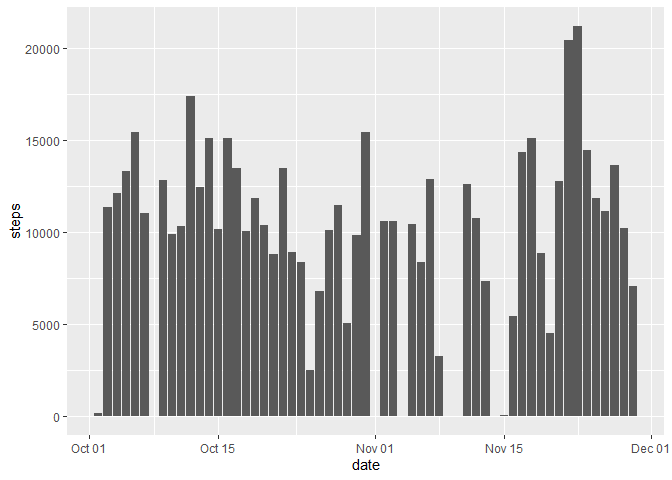
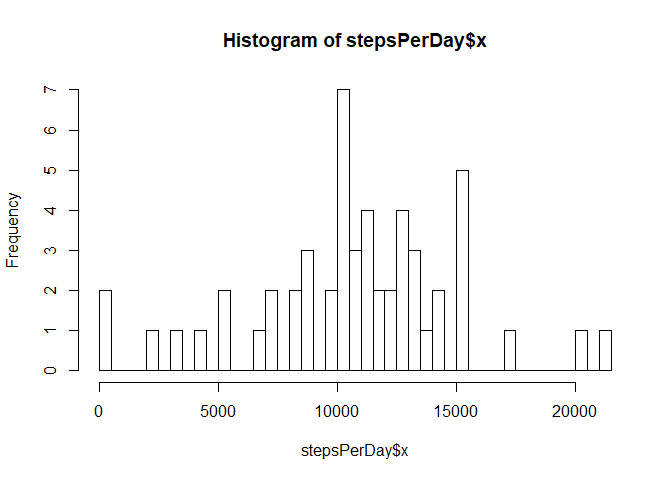
correct the histogram

diff --git a/PA1_template.html b/PA1_template.html
@@ -385,14 +385,13 @@ df &lt;- read.csv(&quot;activity.csv&quot;, colClasses = c(&quot;integer&quot;, 
 <ol style="list-style-type: decimal">
 <li>Make a histogram of the total number of steps taken each day</li>
 </ol>
-<pre class="r"><code>library(ggplot2)
-ggplot(remove_missing(df, na.rm=T), aes(date, steps)) + geom_bar(stat=&quot;identity&quot;)</code></pre>
[1 lines of base64/hex data omitted]
+<pre class="r"><code>stepsPerDay &lt;- aggregate(df$steps, list(dt=df$date), sum)
+hist(stepsPerDay$x, breaks=50)</code></pre>
[1 lines of base64/hex data omitted]
 <ol start="2" style="list-style-type: decimal">
 <li>Calculate and report the <strong>mean</strong> and <strong>median</strong> total number of steps taken per day</li>
 </ol>
-<pre class="r"><code>stepsPerDay &lt;- aggregate(df$steps, list(dt=df$date), sum)
-cat(mean(stepsPerDay$x, na.rm = TRUE))</code></pre>
+<pre class="r"><code>cat(mean(stepsPerDay$x, na.rm = TRUE))</code></pre>
 <pre><code>## 10766.19</code></pre>
 <pre class="r"><code>cat(median(stepsPerDay$x, na.rm = TRUE))</code></pre>
 <pre><code>## 10765</code></pre>
@@ -403,6 +402,7 @@ cat(mean(stepsPerDay$x, na.rm = TRUE))</code></pre>
 <li>Make a time series plot (i.e. <code>type = &quot;l&quot;</code>) of the 5-minute interval (x-axis) and the average number of steps taken, averaged across all days (y-axis)</li>
 </ol>
 <pre class="r"><code>avgSteps &lt;- aggregate(df$steps, list(interval=df$interval), FUN=mean, na.rm=TRUE)
+library(ggplot2)
 ggplot(avgSteps, aes(interval, x)) + geom_line()</code></pre>
[1 lines of base64/hex data omitted]
 <ol start="2" style="list-style-type: decimal">
@@ -434,11 +434,11 @@ imputed &lt;- merged[c(&quot;steps&quot;, &quot;date&quot;, &quot;interval&quot;
 <ol start="4" style="list-style-type: decimal">
 <li>Make a histogram of the total number of steps taken each day…</li>
 </ol>
-<pre class="r"><code>ggplot(imputed, aes(date, steps)) + geom_bar(stat=&quot;identity&quot;)</code></pre>
[1 lines of base64/hex data omitted]
+<pre class="r"><code>stepsPerDay2 &lt;- aggregate(imputed$steps, list(imputed=imputed$date), sum)
+hist(stepsPerDay2$x, breaks=50)</code></pre>
[1 lines of base64/hex data omitted]
 <p>          …and Calculate and report the <strong>mean</strong> and <strong>median</strong> total number of steps taken per day.</p>
-<pre class="r"><code>stepsPerDay2 &lt;- aggregate(imputed$steps, by=list(imputed=imputed$date), FUN=sum)
-cat(mean(stepsPerDay2$x))</code></pre>
+<pre class="r"><code>cat(mean(stepsPerDay2$x))</code></pre>
 <pre><code>## 10766.19</code></pre>
 <pre class="r"><code>cat(median(stepsPerDay2$x))</code></pre>
 <pre><code>## 10766.19</code></pre>

diff --git a/PA1_template.md b/PA1_template.md
@@ -25,8 +25,8 @@ df <- read.csv("activity.csv", colClasses = c("integer", "Date", "integer"))
 
 
 ```r
-library(ggplot2)
-ggplot(remove_missing(df, na.rm=T), aes(date, steps)) + geom_bar(stat="identity")
+stepsPerDay <- aggregate(df$steps, list(dt=df$date), sum)
+hist(stepsPerDay$x, breaks=50)
 ```
 
 ![](PA1_template_files/figure-html/unnamed-chunk-2-1.png)<!-- -->
@@ -35,7 +35,6 @@ ggplot(remove_missing(df, na.rm=T), aes(date, steps)) + geom_bar(stat="identity"
 
 
 ```r
-stepsPerDay <- aggregate(df$steps, list(dt=df$date), sum)
 cat(mean(stepsPerDay$x, na.rm = TRUE))
 ```
 
@@ -58,6 +57,7 @@ cat(median(stepsPerDay$x, na.rm = TRUE))
 
 ```r
 avgSteps <- aggregate(df$steps, list(interval=df$interval), FUN=mean, na.rm=TRUE)
+library(ggplot2)
 ggplot(avgSteps, aes(interval, x)) + geom_line()
 ```
 
@@ -105,7 +105,8 @@ imputed <- merged[c("steps", "date", "interval")]
 
 
 ```r
-ggplot(imputed, aes(date, steps)) + geom_bar(stat="identity")
+stepsPerDay2 <- aggregate(imputed$steps, list(imputed=imputed$date), sum)
+hist(stepsPerDay2$x, breaks=50)
 ```
 
 ![](PA1_template_files/figure-html/unnamed-chunk-8-1.png)<!-- -->
@@ -114,7 +115,6 @@ ggplot(imputed, aes(date, steps)) + geom_bar(stat="identity")
 ...and Calculate and report the **mean** and **median** total number of steps taken per day.
 
 ```r
-stepsPerDay2 <- aggregate(imputed$steps, by=list(imputed=imputed$date), FUN=sum)
 cat(mean(stepsPerDay2$x))
 ```
 
